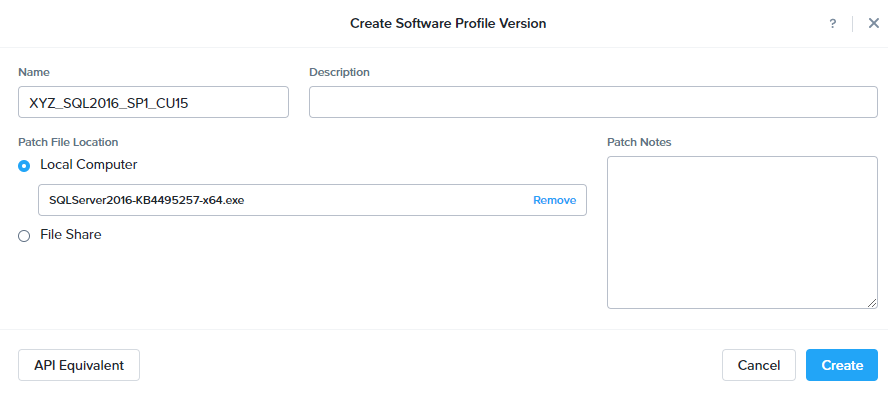
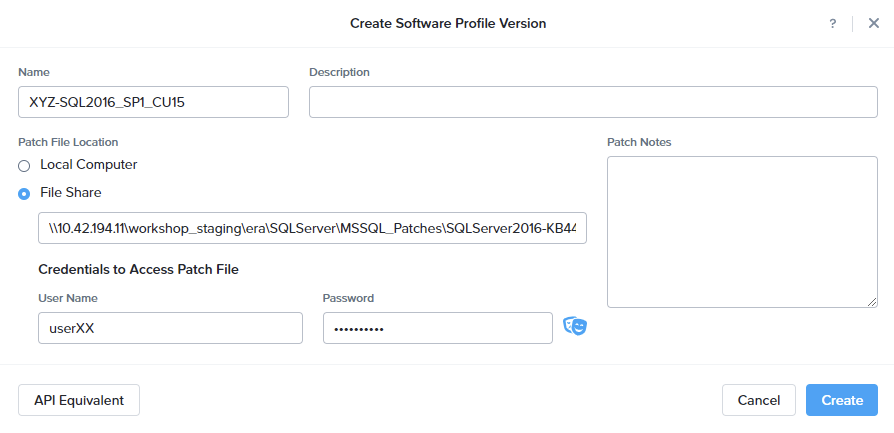
2-8-21.2
Patching updates.

diff --git a/patch_sql/patch_sql.rst b/patch_sql/patch_sql.rst
@@ -19,23 +19,28 @@ Links
 Creating a Software Profile Version
 +++++++++++++++++++++++++++++++++++
 
-A software profile versions are created in Era to support patching of SQL Server database server instances. A software profile version can be created by uploading a SQL Server update executable. The SQL Server update can then be used to patch other database server VMs or when provisioning new database server VMs with the updated software profile.
+Software Profile Versions are created in Era to support patching of SQL Server database server instances. A Software Profile Version can be created simply by uploading a SQL Server update executable. The SQL Server update can then be used to patch other database server VMs or when provisioning new database server VMs with the updated Software Profile.
 
 #. Within Era, select **Profiles** from the drop-down menu.
 
-#. On the left-hand side, select **Software**, and then click on the software profile under which you wish to create a new version (i.e. *Initials*\ _MSSQL_2016).
+#. On the left-hand side, select **Software**, and then click on the software profile under which you wish to create a new version (i.e. *Initials*\ -MSSQL_2016).
+
+   Currently you should only see the base (1.0) version of the profile.
 
 #. Click **Create**. The *Create Software Profile Version* window appears.
 
 #. Do the following in the indicated fields:
 
-   - **Name** *Initials*\ _SQL2016_SP1_CU15
+   - **Name** *Initials*\ -SQL2016_SP1_CU15
+   - **Patch File Location** - File Share
+   - **File Share** - ``\\10.42.194.11\workshop_staging\era\SQLServer\MSSQL_Patches\SQLServer2016-KB4495257-x64.exe``
+   - **User Name** - Refer to **Username** in :ref:`clusterdetails` (ex. *USERXX*)
+   - **Password** - Refer to **Password** in :ref:`clusterdetails`
 
-   - **Patch File Location** Upload ``SQLServer2016-KB4495257-x64.exe`` either from a file share (HPOC) or upload from your PC.
-
-      .. figure:: images/2.png
+      .. figure:: images/2.png MAKE NEW SS
 
    - Wait for the upload to complete, and then click **Create**.
+   This should take approximately 3 minutes to complete.
 
 Updating a Software Profile Version
 +++++++++++++++++++++++++++++++++++
@@ -44,9 +49,9 @@ After profile creation is successful, you must publish the profile to make the p
 
 #. Within Era, select **Profiles** from the drop-down menu.
 
-#. On the left-hand side, select **Software**, and then click on the *Initials*\ _MSSQL_2016 software profile.
+#. On the left-hand side, select **Software**, and then click on the *Initials*\ -MSSQL_2016 software profile.
 
-#. Select the *Initials*\ _SQL2016_SP1_CU15 profile version, and click **Update**. The *Update Software Profile Version* window appears.
+#. Select the *Initials*\ -SQL2016_SP1_CU15 profile version, and click **Update**. The *Update Software Profile Version* window appears.
 
 #. In the *General* step, click on **Published**, and then click the check box for *By publishing this version of the software profile, I understand that Era will recommend that all databases using an earlier versions of this software profile should update to this new version. The recommendation will appear on the Database Server VM home page*.
 
@@ -75,9 +80,9 @@ Perform the following procedure to apply updates from the available software pro
 
 #. Select the following in the indicated fields:
 
-   - **Software Profile** *Initials*\ _MSSQL_2016
+   - **Software Profile** *Initials*\ -MSSQL_2016
 
-   - **Version** *Initials*\ _SQL2016_SP1_CU15
+   - **Version** *Initials*\ -SQL2016_SP1_CU15
 
    - **Start Update** Now
 

diff --git a/index.rst b/index.rst
@@ -337,6 +337,8 @@ Each cluster has a dedicated domain controller VM, **DC**, responsible for provi
      - user01-user25
      - nutanix/4u
 
+.. _clusterdetails:
+
 Access Instructions
 +++++++++++++++++++
 
